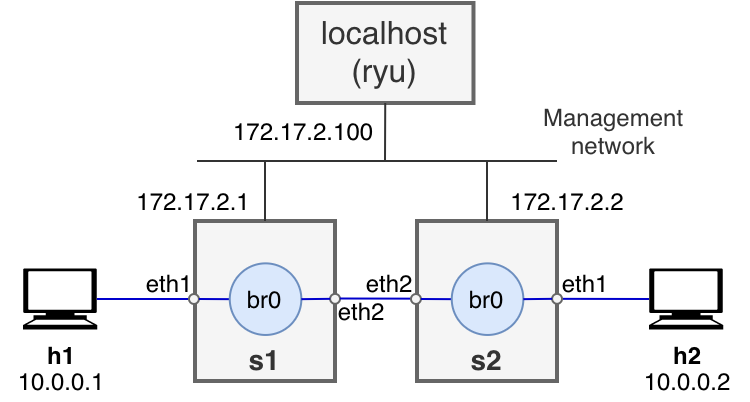
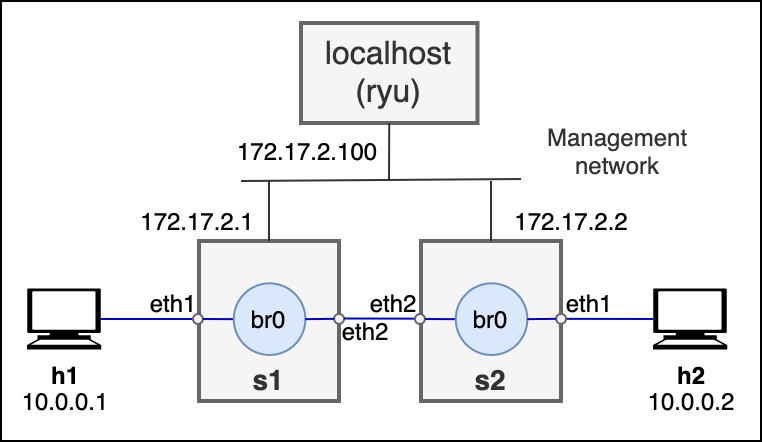
Modify readme for 2021-22 and png background

Changed region(s): [[0.0, 0.0, 1.0, 1.0], [0.7053, 0.2687, 0.92, 0.4179]]

diff --git a/README.md b/README.md
@@ -6,7 +6,7 @@ Simple VNX scenario using the Ryu controller to test QoS funcions that can be se
 
 ## Requirements
 Ubuntu with VNX and Ryu. It can be tested using the following ova:
-- [VNXSDNLAB2020-v2.ova](https://idefix.dit.upm.es/download/vnx/vnx-vm/VNXSDNLAB2020-v2.ova)
+- [VNXLAB2021-v2.ova](https://idefix.dit.upm.es/download/vnx/vnx-vm/VNXLAB2021-v2.ova)
 
 ## Quick guide 
 
@@ -108,7 +108,7 @@ s2# ovs-vsctl list qos
 This command shows the configuration of a queue:
 
 ```shell
-s2# ovs-vsctl list queue <queue_id>
+s2# ovs-vsctl list queue <queue_id>	
 ```
 
 
